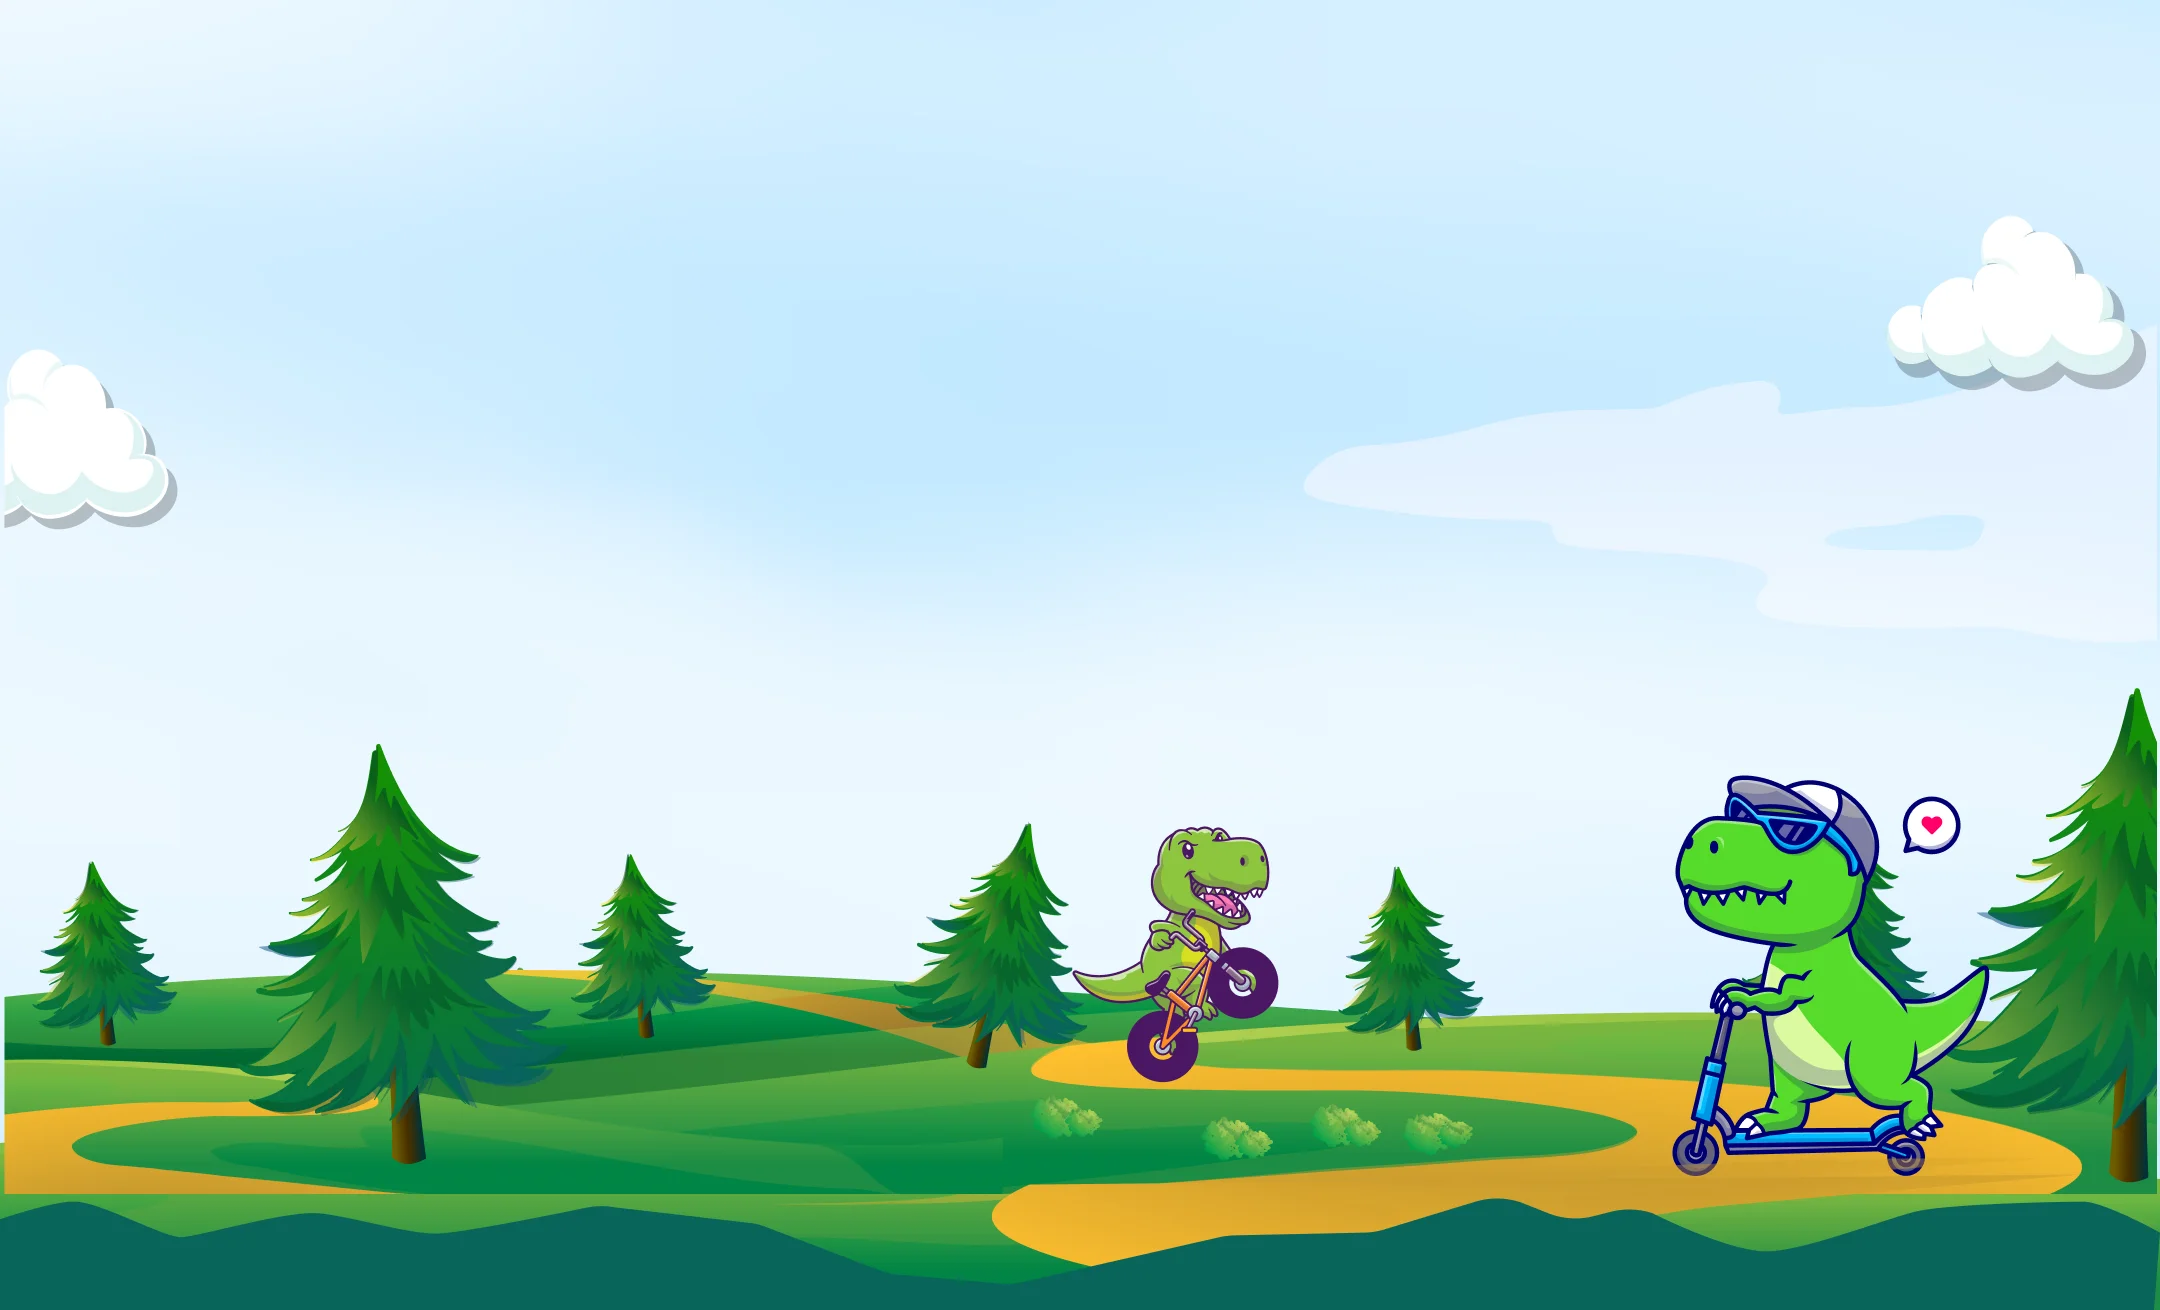
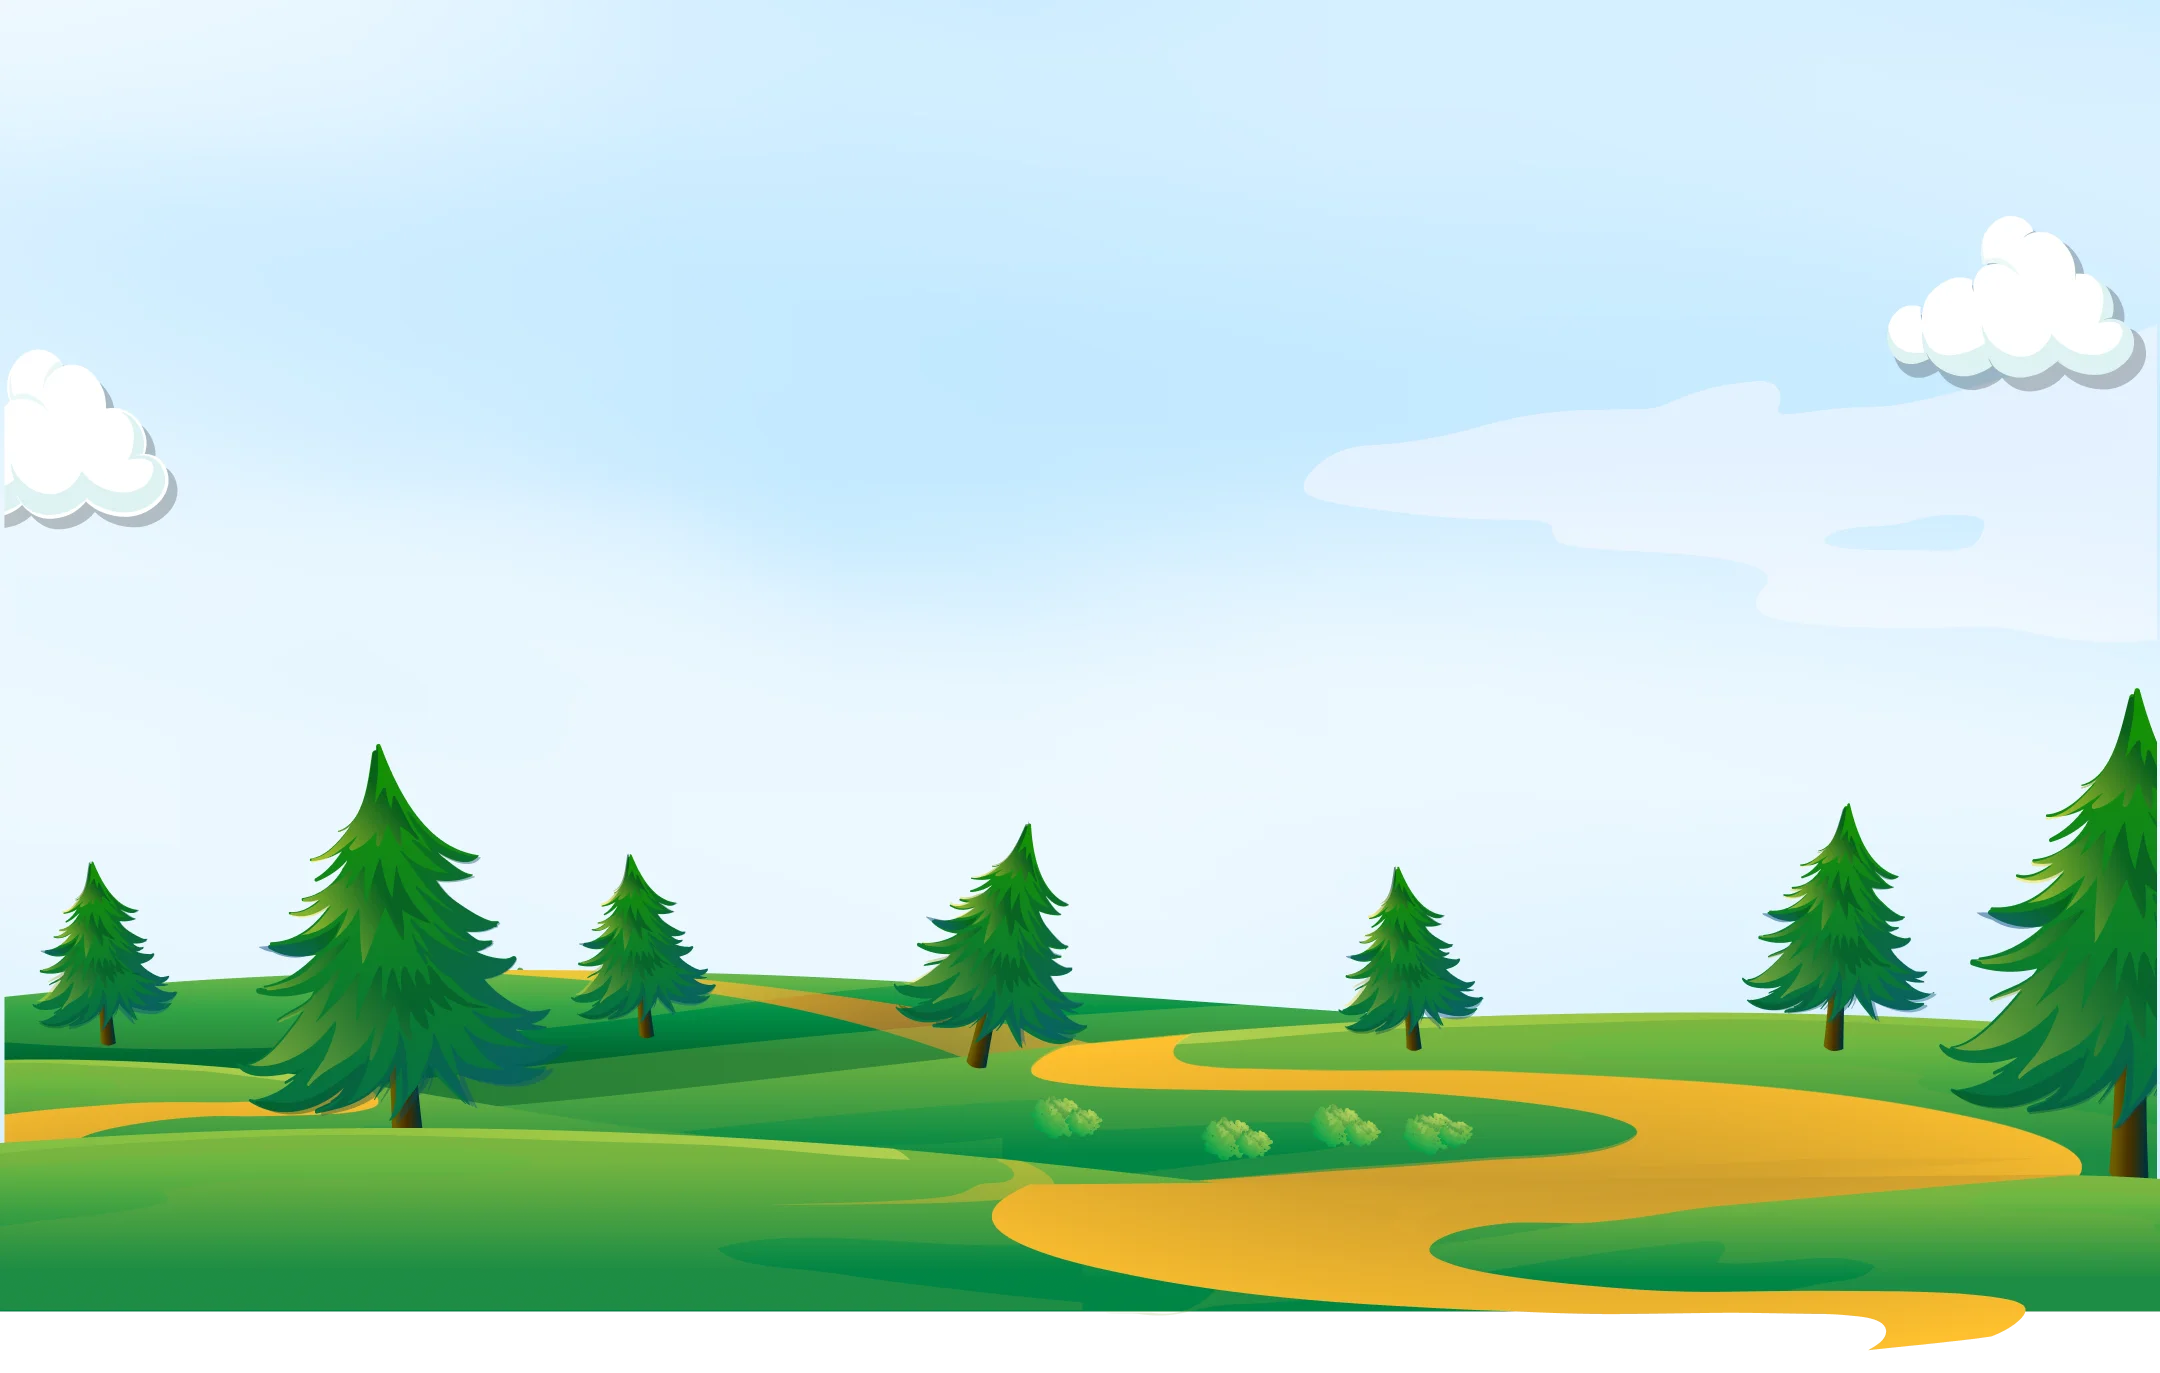
header

diff --git a/src/components/Header.jsx b/src/components/Header.jsx
@@ -1,6 +1,8 @@
 import React, { useState } from "react";
 import { Discordb, Instagramb, Twitterb } from "./Icons";
 import aeroplane from "../assets/images/aeroplane.webp";
+import dino1 from "../assets/images/dino1.webp";
+import dino2 from "../assets/images/dino2.webp";
 
 function Header() {
   const [open, setOpen] = useState(false);
@@ -11,7 +13,7 @@ function Header() {
   }
   return (
     <>
-      <div className="min-h-screen min-[1200px]:min-h-[877px] min-[1441px]:min-h-screen bg-headerbg bg-no-repeat w-full bg-cover bg-center flex flex-col">
+      <div className="min-h-screen min-[1200px]:min-h-[877px] bg-headerbg bg-no-repeat w-full bg-cover bg-center flex flex-col relative overflow-hidden">
         {/* small screen navpage */}
         <ul
           className={`w-full h-full fixed flex min-[992px]:hidden justify-center items-center flex-col gap-10 z-[7] bg-[#C9F6FF] left-[-100%] duration-300 ${
@@ -87,7 +89,7 @@ function Header() {
           </li>
           <li>
             <a
-              className="bg-buttonbg w-[138px] h-[54.6px] bg-cover bg-center bg-no-repeat flex justify-center items-center font-chewy font-normal text-lg leading-[23.52px] text-black px-[36px] pt-[11px] pb-[19px]"
+              className="bg-buttonbg w-[138px] h-[54.6px] bg-cover bg-center bg-no-repeat flex justify-center items-center font-chewy font-normal text-lg leading-[23.52px] text-black px-[36px] pt-[11px] pb-[19px] duration-300 hover:text-white"
               href=""
               onClick={() => setOpen(false)}
             >
@@ -96,7 +98,7 @@ function Header() {
           </li>
         </ul>
         {/* navbar */}
-        <nav className="max-w-[1164px] w-full px-3 mx-auto h-[95px] flex items-end">
+        <nav className="max-w-[1164px] w-full px-3 mx-auto h-[79px] min-[800px]:h-[95px] flex items-end">
           <div className="w-full h-[67px] border-b-[4px] border-solid border-black bg-white rounded-[61px] pl-6 pr-6 min-[992px]:pr-[7px] flex justify-between items-center sm:gap-x-24">
             <a href="">
               <div className="f-dino font-normal text-[30px] sm:text-[39.13px] sm:leading-[37.17px] drop-shadow-[0px_2px_#000000] z-10 relative">
@@ -174,7 +176,7 @@ function Header() {
                 </li>
                 <li className="hidden min-[992px]:block">
                   <a
-                    className="bg-buttonbg w-[138px] h-[54.6px] bg-cover bg-center bg-no-repeat flex justify-center items-center font-chewy font-normal text-lg leading-[23.52px] text-black px-[36px] pt-[11px] pb-[19px]"
+                    className="bg-buttonbg w-[138px] h-[54.6px] bg-cover bg-center bg-no-repeat flex justify-center items-center font-chewy font-normal text-lg leading-[23.52px] text-black px-[36px] pt-[11px] pb-[19px] duration-300 hover:text-white"
                     href=""
                   >
                     Join Now
@@ -206,25 +208,25 @@ function Header() {
           </div>
         </nav>
         {/* hero-section */}
-        <div className="max-w-[1164px] px-3 mx-auto grow w-full flex flex-wrap">
-          <div className="w-full min-[900px]:w-[50%] flex justify-center items-center min-[900px]:justify-start min-[900px]:items-start">
-            <div className="max-w-[394px] max-h-[241px] w-full lg:h-full min-[900px]:mt-[175px] min-[900px]:ml-[46px] p-3 sm:p-0">
+        <div className="max-w-[1164px] px-3 mx-auto grow w-full flex flex-col min-[800px]:flex-row">
+          <div className="w-full min-[800px]:w-[50%] flex justify-center min-[800px]:justify-start">
+            <div className="max-w-[250px] sm:max-w-[250px] min-[900px]:max-w-[350px] min-[1200px]:max-w-[394px] w-full mt-2 min-[800px]:ml-6 min-[1200px]:mt-[175px] min-[1200px]:ml-[46px]">
               <img
-                className="w-full lg:h-full object-cover"
+                className="w-full object-cover"
                 src={aeroplane}
                 alt="aeroplane"
               />
             </div>
           </div>
-          <div className="w-full min-[900px]:w-[50%] flex justify-center items-center min-[900px]:justify-start min-[900px]:items-start">
-            <div className="max-w-[398px] w-full flex flex-col items-center min-[900px]:ml-[10px] min-[900px]:mt-[83px]">
-              <div className="f-dino font-normal text-[130px] min-[900px]:text-[175.64px] leading-[120px] min-[900px]:leading-[166.85px] drop-shadow-[0px_6px_#000000]">
+          <div className="w-full min-[800px]:w-[50%]">
+            <div className="min-[1200px]:max-w-[398px] w-full flex flex-row justify-center min-[1200px]:flex-col items-center min-[1200px]:ml-[10px] min-[900px]:mt-[50px] min-[1200px]:mt-[83px]">
+              <div className="f-dino font-normal text-[75px] sm:text-[100px] lg:text-[120px] min-[1200px]:text-[175.64px] min-[1200px]:leading-[166.85px] drop-shadow-[0px_6px_#000000]">
                 <span className="text-[rgba(251,161,29,1)]">D</span>
                 <span className="text-[rgba(35,170,172,1)]">I</span>
                 <span className="text-[rgba(212,91,7,1)]">N</span>
                 <span className="text-[rgba(142,198,39,1)]">O</span>
               </div>
-              <div className="f-dino font-normal text-[130px] min-[900px]:text-[175.64px] leading-[120px] min-[900px]:leading-[166.85px] drop-shadow-[0px_6px_#000000]">
+              <div className="f-dino font-normal text-[75px] sm:text-[100px] lg:text-[120px] min-[1200px]:text-[175.64px] min-[1200px]:leading-[166.85px] drop-shadow-[0px_6px_#000000]">
                 <span className="text-[rgba(142,198,39,1)]">L</span>
                 <span className="text-[rgba(252,202,43,1)]">F</span>
                 <span className="text-[rgba(143,120,210,1)]">G</span>
@@ -232,6 +234,13 @@ function Header() {
             </div>
           </div>
         </div>
+        {/* dino images */}
+        <img
+          className="absolute w-[90px] min-[1200px]:w-[131px] min-[1200px]:h-[165px] left-[50%] bottom-[20%] min-[1441px]:bottom-[18%] animate-cycleright"
+          src={dino2}
+          alt="dino cartoon"
+        />
+        <img className="absolute w-[120px] min-[1200px]:w-[211px] min-[1200px]:h-[267px] bottom-[8%] min-[1441px]:bottom-[10%] left-[50%] sm:left-[77%] animate-cycleleft2 sm:animate-cycleleft" src={dino1} alt="dino cartoon" />
       </div>
     </>
   );

diff --git a/tailwind.config.js b/tailwind.config.js
@@ -2,7 +2,49 @@
 export default {
   content: ["./index.html", "./src/**/*.{js,ts,jsx,tsx}"],
   theme: {
-    extend: {},
+    extend: {
+      keyframes: {
+        cycleright: {
+          "0%": { left: "50%", rotate: "y 0deg" },
+          "50%": {
+            left: "100%",
+            rotate: "y 0deg",
+          },
+          "60%": { left: "100%", rotate: "y 180deg" },
+
+          "100%": { left: "50%", rotate: "y 180deg" },
+        },
+        cycleleft: {
+          "0%": { left: "77%", rotate: "y 0deg" },
+          "30%": {
+            left: "0%",
+            rotate: "y 0deg",
+          },
+          "40%": { left: "0%", rotate: "y 180deg" },
+          "45%": { left: "0%", rotate: "y 180deg" },
+          "80%": { left: "100%", rotate: "y 180deg" },
+          "85%": { left: "100%", rotate: "y 0deg" },
+          "100%": { left: "77%", rotate: "y 0deg" },
+        },
+        cycleleft2: {
+          "0%": { left: "50%", rotate: "y 0deg" },
+          "30%": {
+            left: "0%",
+            rotate: "y 0deg",
+          },
+          "40%": { left: "0%", rotate: "y 180deg" },
+          "45%": { left: "0%", rotate: "y 180deg" },
+          "80%": { left: "100%", rotate: "y 180deg" },
+          "85%": { left: "100%", rotate: "y 0deg" },
+          "100%": { left: "50%", rotate: "y 0deg" },
+        },
+      },
+      animation: {
+        cycleright: "cycleright 8s linear infinite",
+        cycleleft: "cycleleft 8s linear infinite",
+        cycleleft2: "cycleleft 8s linear infinite",
+      },
+    },
     fontFamily: {
       chewy: ["Chewy"],
       balsamiq: ["Balsamiq Sans"],
@@ -10,6 +52,7 @@ export default {
     backgroundImage: {
       headerbg: "url(/src/assets/images/headerbg.webp)",
       buttonbg: "url(/src/assets//images/button.webp)",
+      section1bg: "url(/src/assets/images/section1bg.webp)",
     },
   },
   plugins: [],

diff --git a/src/App.jsx b/src/App.jsx
@@ -3,12 +3,14 @@ import reactLogo from './assets/react.svg'
 import viteLogo from '/vite.svg'
 import './App.css'
 import Header from './components/Header';
+import Section1 from './components/Section1';
 
 function App() {
 
   return (
     <>
-      <Header/>
+      <Header />
+      {/* <Section1/> */}
     </>
   );
 }

diff --git a/src/components/Section1.jsx b/src/components/Section1.jsx
@@ -1,0 +1,11 @@
+import React from 'react'
+
+function Section1() {
+  return (
+      <>
+          <div className='bg-section1bg bg-center bg-cover bg-no-repeat min-h-[763px]'></div>
+      </>
+  )
+}
+
+export default Section1
